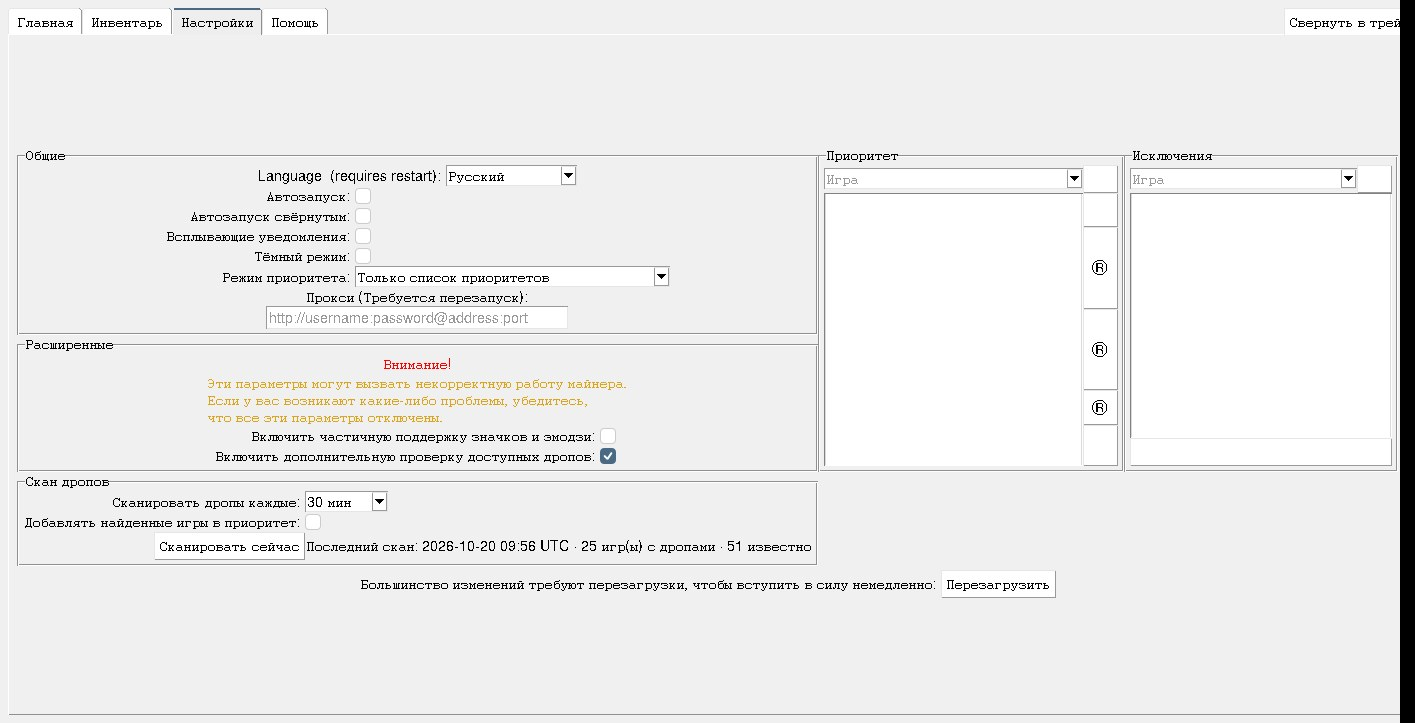
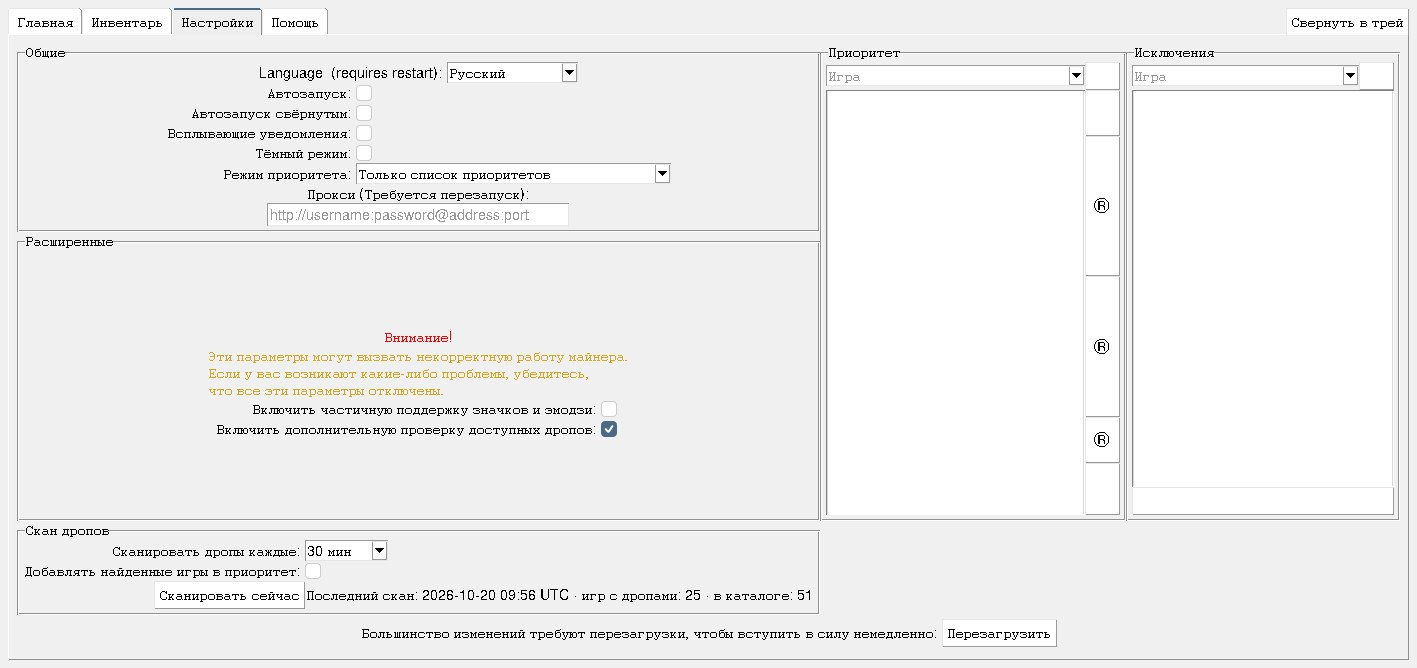
Bring back the About box with both authors, and let the lists breathe
The priority and exclude lists stretch downwards now that the drop scan section
takes the space under the general options, and the scan status line spells out
what the numbers mean (games with drops vs. the catalogue size).

diff --git a/gui.py b/gui.py
@@ -1630,7 +1630,9 @@ class SettingsPanel:
         master.columnconfigure(0, weight=1)
         # use a frame to center the content within the tab
         center_frame = ttk.Frame(master)
-        center_frame.grid(column=0, row=0)
+        center_frame.grid(column=0, row=0, sticky="nsew")
+        # the priority and exclude lists stretch downwards with the window
+        center_frame.rowconfigure(1, weight=1)
 
         # General section
         general_frame = ttk.LabelFrame(
@@ -1777,7 +1779,7 @@ class SettingsPanel:
         ).grid(column=1, row=0, sticky="nsew")
         self._priority_list = PaddedListbox(
             priority_frame,
-            height=12,
+            height=18,
             padding=(1, 0),
             activestyle="none",
             selectmode="single",
@@ -1838,7 +1840,7 @@ class SettingsPanel:
         ).grid(column=1, row=0)
         self._exclude_list = PaddedListbox(
             exclude_frame,
-            height=12,
+            height=18,
             padding=(1, 0),
             activestyle="none",
             selectmode="single",
@@ -2200,6 +2202,23 @@ class HelpTab:
         bottom_frame = ttk.Frame(master)
         bottom_frame.grid(column=0, row=1, sticky="nsew")
         irow = 0
+        # About
+        about = ttk.LabelFrame(
+            center_frame, padding=(4, 0, 4, 4), text=_("gui", "help", "about", "name")
+        )
+        about.grid(column=0, row=(irow := irow + 1), sticky="nsew", padx=2)
+        ttk.Label(
+            about, text=_("gui", "help", "about", "created_by"), anchor="e"
+        ).grid(column=0, row=0, sticky="nsew", padx=(0, 4))
+        LinkLabel(
+            about, link="https://github.com/DevilXD", text="DevilXD"
+        ).grid(column=1, row=0, sticky="w")
+        ttk.Label(
+            about, text=_("gui", "help", "about", "modified_by"), anchor="e"
+        ).grid(column=0, row=1, sticky="nsew", padx=(0, 4))
+        LinkLabel(
+            about, link="https://github.com/RoninOnis", text="0xONI"
+        ).grid(column=1, row=1, sticky="w")
         # Useful links
         links = ttk.LabelFrame(
             center_frame, padding=(4, 0, 4, 4), text=_("gui", "help", "links", "name")

diff --git a/translate.py b/translate.py
@@ -401,7 +401,10 @@ default_translation: Translation = {
                 "never": "Not scanned yet",
                 "running": "Scanning for drops…",
                 "stale": "(stale)",
-                "status": "Last scan: {when} UTC · {drops} game(s) with drops · {total} known",
+                "status": (
+                    "Last scan: {when} UTC · games with drops: {drops} "
+                    "· in the catalogue: {total}"
+                ),
             },
             "priority_modes": {
                 "priority_only": "Priority list only",
@@ -415,6 +418,11 @@ default_translation: Translation = {
             "reload_text": "Most changes require a reload to take an immediate effect: ",
         },
         "help": {
+            "about": {
+                "name": "About",
+                "created_by": "Application created by: ",
+                "modified_by": "Modified by: ",
+            },
             "links": {
                 "name": "Useful Links",
                 "inventory": "See Twitch inventory",
